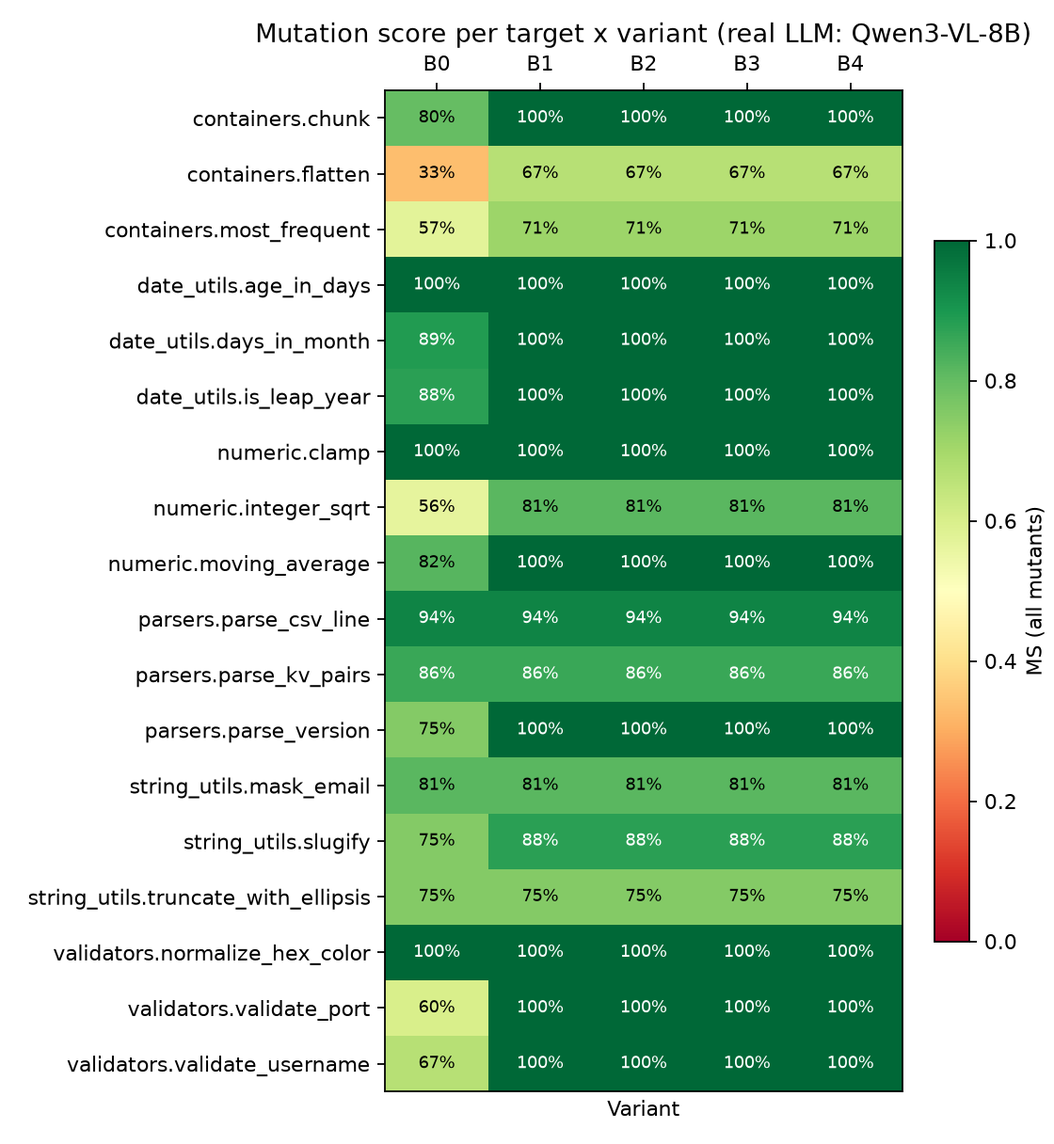
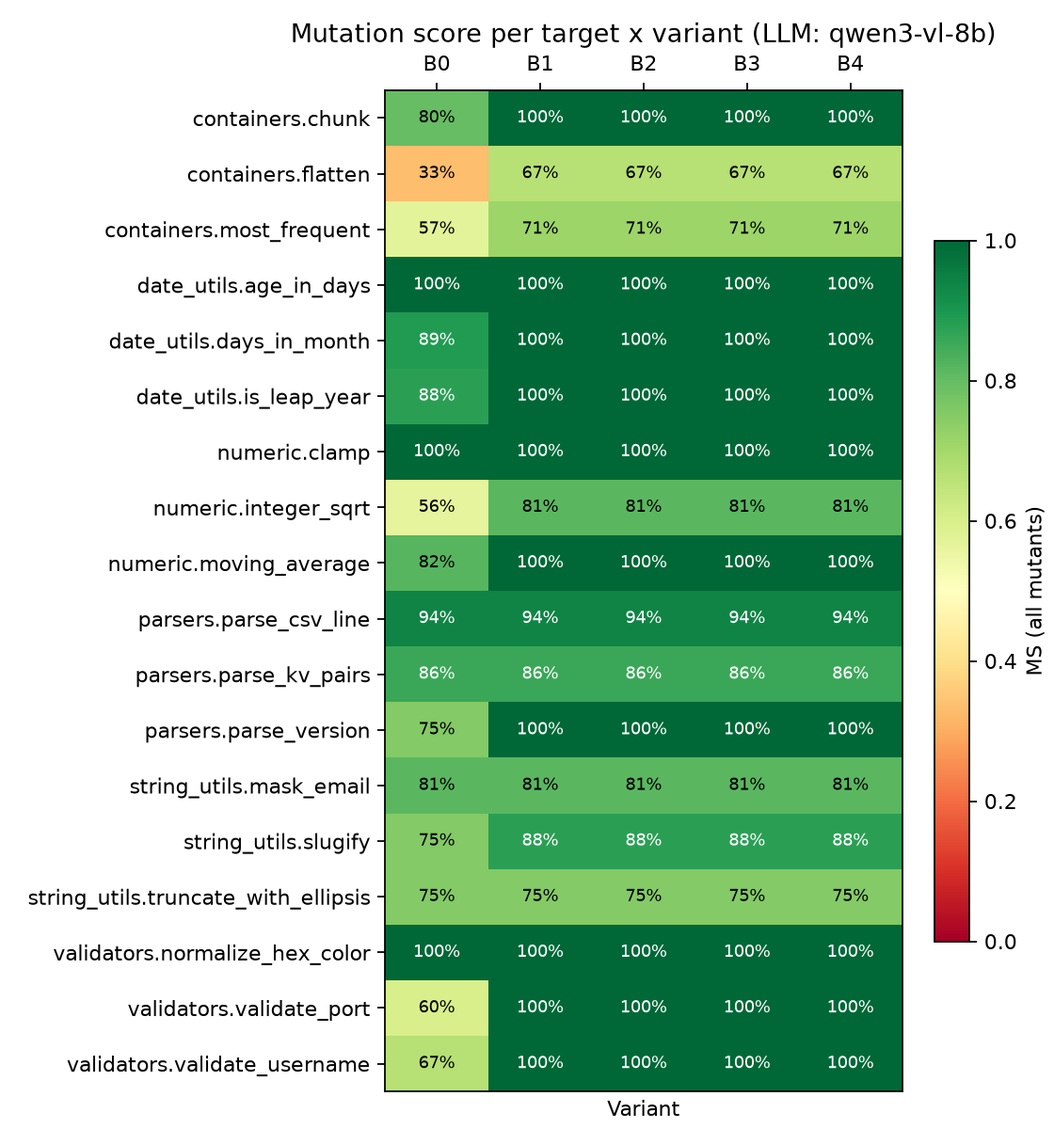
Docs: professional tone, neutral deployment framing
- README rewritten as a standard project document: motivation, design,
  usage, evaluation methodology, results with statistical annotations,
  limitations section; interview-facing framing removed
- Replace self-hosted endpoint example with a generic host/port/model
  form; drop all location-specific references (none remain in repo)
- report.md: replace colloquial phrasing with precise academic wording
  (abstract, RQ2 interpretation, gate behaviour, case studies, threats)
- plots: heatmap/bar labels derived from the ledger's model name instead
  of the directory name; regenerated for both grids

Changed region(s): [[0.25, 0.0, 0.9688, 0.0625]]

diff --git a/experiments/plots.py b/experiments/plots.py
@@ -142,13 +142,15 @@ def main() -> None:
     ap.add_argument("--label", default=None, help="grid label for plot titles (default: derived from dir name)")
     args = ap.parse_args()
     exp_dir = Path(args.exp)
+    rows = load(exp_dir)
     if args.label:
         label = args.label
-    elif "api" in exp_dir.name:
-        label = "real LLM: Qwen3-VL-8B"
     else:
-        label = "mock backend"
-    rows = load(exp_dir)
+        model = next(
+            (r.get("cost", {}).get("model", "") for r in rows if r.get("cost")),
+            "",
+        )
+        label = "mock backend" if not model or model == "mock" else f"LLM: {model}"
     plot_dir = exp_dir / "plots"
     plot_dir.mkdir(parents=True, exist_ok=True)
     ms_by_variant(rows, plot_dir / "ms_by_variant.png")

diff --git a/README.md b/README.md
@@ -1,30 +1,27 @@
-# TestForge — 变异测试引导的 AI 测试质量智能体
+# TestForge
+
+**以变异测试为验收标准的测试生成智能体：LLM 生成的单元测试必须被证明具备故障检出能力，才会被采纳进测试套件。**
+
+*TestForge: a mutation-guided test quality agent. LLM-generated unit tests are accepted only if they provably kill seeded faults that the existing suite misses.*
 
 ![CI](https://github.com/Luz7818/testforge/actions/workflows/ci.yml/badge.svg)
 ![Python](https://img.shields.io/badge/python-3.10%20%7C%203.11%20%7C%203.12-blue)
 ![Platform](https://img.shields.io/badge/platform-Windows%20%7C%20Linux-lightgrey)
 ![License](https://img.shields.io/badge/license-MIT-green)
 
-**LLM 生成的单元测试"能通过"，不等于"能抓住 Bug"。TestForge 用变异测试（mutation testing）作为验收标准，构建了一个生成→门禁→反馈→验收的闭环智能体，让 AI 测试的质量变得可证明、可量化、可审计。**
+## 1. 问题背景
 
-> *Generated tests that pass are not tests that catch bugs. TestForge is an agent loop that only accepts AI-written tests that provably kill seeded faults — an open-source reproduction and extension of Meta's ACH (FSE 2025).*
+LLM 编程助手生成的单元测试存在系统性的**弱预言机（weak oracle）**问题：测试针对当前代码编写，倾向于通过而非证伪，断言薄弱、边界缺失。行覆盖率因此成为一个误导性的质量代理——一条 `assert result is not None` 即可覆盖分支而不校验任何行为。测试通过只能说明测试与代码相互一致，不能说明代码正确。
 
-> 面向面试的完整工程项目：真实工业痛点 + 顶会论文背书（Meta ACH, FSE 2025）+ 可复现实验 + 严格统计检验。
-> 技术报告见 [docs/report.md](docs/report.md)，面试准备手册见 [docs/interview.md](docs/interview.md)。
+工业界的数据与动作印证了该问题的严重性：
 
----
+- 66% 的企业用户将"几乎正确但差一点"列为 AI 编码工具的首要痛点（Kilo 2026 Buyer's Guide）；AI 辅助代码伴随更高的评审返工率与回滚率（Glean，2026）。
+- Meta 在 FSE 2025 发表 ACH 系统（*Mutation-Guided LLM-based Test Generation at Meta*），以变异测试反馈驱动 LLM 生成更强的测试；学界有 MutGen（arXiv:2506.02954）、PRIMG 等后续工作。
+- 上述系统均未开源、端到端、可复现的实现。TestForge 补充这一空缺，并提供了完整的实验方法论与统计评估。
 
-## 1. 问题：AI 生成的测试为什么不可信
+变异分数（mutation score，被杀死的变异体占总变异体的比例）直接度量故障检出能力，是测试质量的经典金标准。它的主要障碍是执行成本——O(测试数 × 变异体数) 次测试运行——这也是本工程重点处理的问题。
 
-2026 年，AI 编程助手最大的痛点已经从"能不能写代码"变成"**产出看似正确但实际不可信**"：
-
-- 66% 的企业用户反映 AI 代码"几乎对但差一点"（[Kilo 2026 Buyer's Guide](https://kilo.ai)），AI 辅助代码的评审返工率显著上升（[Glean](https://www.glean.com)）；
-- 在测试生成场景，这个问题更隐蔽：LLM 针对当前代码写测试，生成的测试**天然倾向于通过**——断言薄弱、边界缺失、只覆盖执行路径不校验行为。行覆盖率好看，但测试杀死不了任何被植入的缺陷（mutant）；
-- **"测试通过"验证的是代码与测试互相一致，而不是代码正确。** 没有故障检出能力（fault detection capability）度量的测试生成，是在优化一个错误的代理指标。
-
-工业界已经行动：Meta 在 FSE 2025 发表 [ACH 系统](https://arxiv.org/abs/2506.02954)（*Mutation-Guided LLM-based Test Generation at Meta*），用变异测试反馈驱动 LLM 生成更强的测试；学界有 MutGen（arXiv 2025）、PRIMG、MuTAP 等后续工作。**但目前没有开源、端到端、带严格评估的完整实现。** TestForge 补上这一环。
-
-## 2. 方案：把"质量"做成门禁，把"漏洞"变成反馈
+## 2. 系统设计
 
 ```mermaid
 flowchart LR
@@ -33,7 +30,7 @@ flowchart LR
     GEN --> GATE{"质量门禁"}
     GATE -->|"拒绝"| FB["存活变异体<br/>最小语义 diff"]
     FB -->|"反馈强化"| GEN
-    GATE -->|"有证据才验收"| ACC["验收合并"]
+    GATE -->|"验收"| ACC["验收合并"]
     ACC --> OUT["测试套件<br/>报告 + 成本账单"]
     MUT["变异引擎<br/>7 算子 · 杀伤矩阵并行"] -.->|"杀伤归因"| GATE
     MUT -.->|"存活集合"| FB
@@ -45,113 +42,85 @@ flowchart LR
     class SA,GATE,ACC,OUT,IN agent;
 ```
 
-**质量门禁（全过才验收）**
+**验收门禁**（全部通过才采纳一个候选测试）：
 
-| 信号 | 含义 | 拒绝什么样的测试 |
+| 信号 | 判定 | 拒绝对象 |
 |---|---|---|
-| `runs_on_original` | 在当前代码上重复通过 N 次 | 一次过的侥幸测试、随机器/时间导致的 flaky 测试 |
-| `falsifiable` | 至少杀死 1 个"存活变异体" | 断言空洞、只跑不改的表演型测试 |
-| `coverage_delta`（可选） | 新增覆盖行 | 纯重复既有覆盖的测试（默认仅报告不强制，见报告 §4.3） |
+| `runs_on_original` | 在当前代码上连续通过 N 次（默认 5） | 偶然通过的测试、由随机性/时间导致的 flaky 测试 |
+| `falsifiable` | 至少杀死 1 个既有套件未杀死的变异体 | 断言空洞、不提供任何质量证据的测试 |
+| `coverage_delta`（可选） | 新增覆盖行 | 默认仅报告不强制，理由见技术报告 §4.3 |
 
-**变异体反馈回路**：门禁拒绝后，把"你的测试没抓到的种子缺陷"以最小 diff 形式回填给模型：
+**反馈回路**：未被杀死的存活变异体以最小语义 diff 的形式回填到下一轮生成 prompt（例如 `[M008] line 17 (CRN): 'i + 1' -> 'i + 2'`）。每轮反馈等价于向模型提供其测试未能检出的具体缺陷。验收采用贪心集合覆盖：候选的增量杀伤相对"B0 ∪ 已验收集合"计算，存活集随验收收缩，直至分数平台期。
 
-```
-[M008] line 17 (CRN): `i + 1` -> `i + 2`
-```
-
-模型看到的是精确的语义变化，而不是模糊的"写得更好一点"——这是与 Meta ACH 一致的核心机制。
-
-## 3. 快速开始
+## 3. 安装与使用
 
 ```bash
-# 环境（Windows / macOS / Linux 通用，Python ≥ 3.10；从仓库根目录运行，免安装）
+# 环境：Python ≥ 3.10，从仓库根目录运行（无需安装）
 python -m venv .venv
 .venv/Scripts/pip install pytest coverage openai matplotlib   # Linux/macOS: .venv/bin/pip
-# 注：若项目路径含非 ASCII 字符，`pip install -e .` 可能因 setuptools 路径编码问题失败；
-#     本项目无需安装即可运行（仓库根目录直接 python -m ...）。
 
-# ① 离线体验全流程（Mock 模式，零 API 成本）
-.venv/Scripts/python -m testforge.cli targets                     # 查看 18 个基准目标
-.venv/Scripts/python -m testforge.cli run --target parsers.parse_csv_line --variant B3 --mode mock
-.venv/Scripts/python -m testforge.cli report --results results/demo/parsers.parse_csv_line__B3.json --out report.md
+# 查看 18 个基准目标
+python -m testforge.cli targets
 
-# ② 真实 LLM 实验（DeepSeek，OpenAI 兼容接口）
-cp .env.example .env        # 填入 DEEPSEEK_API_KEY
-.venv/Scripts/python experiments/run_experiment.py --mode api         # 全网格：18 目标 × 5 变体
-.venv/Scripts/python experiments/analyze.py --exp results/exp_api_<stamp>   # 统计检验 + RQ 分析
-.venv/Scripts/python experiments/plots.py   --exp results/exp_api_<stamp>   # 图表
+# 单目标运行（离线 Mock 后端，零 API 成本）
+python -m testforge.cli run --target parsers.parse_csv_line --variant B3 --mode mock
+python -m testforge.cli report --results results/runs/parsers.parse_csv_line__B3.json --out report.md
 
-# ③ 任意自建 OpenAI 兼容端点（校内 vLLM / Ollama / one-api 等，无需改代码）
-# 在 .env 中设置四项即可切换，例如东南大学 aicloud（需校园网可达）：
-#   DEEPSEEK_API_KEY=EMPTY                                  # 无鉴权服务填任意非空串
-#   TESTFORGE_API_BASE=http://aicloud.seu.edu.cn:20082/v1
-#   TESTFORGE_MODEL=qwen3-vl-8b
-#   TESTFORGE_EXTRA_BODY={"enable_thinking": false}         # Qwen3 关思考模式；vLLM 原生格式见 .env.example
-# 注意：小模型（≤8B）格式违规率与门禁拒绝率会显著升高、变异分数提升幅度预计低于
-# DeepSeek-V3 级别——这本身是"模型规模 × 反馈收益"的天然实验素材；成本列按
-# DeepSeek 价格折算，免费内部端点请忽略。
+# 真实 LLM：在 .env 中配置任意 OpenAI 兼容端点（DeepSeek、自建 vLLM、Ollama、one-api 等）
+cp .env.example .env
+python experiments/run_experiment.py --mode api      # 全网格：18 目标 × 5 变体
+python experiments/analyze.py --exp results/exp_api_<stamp>
+python experiments/plots.py   --exp results/exp_api_<stamp>
 
-# ④ TestForge 自身测试（35 个）
-.venv/Scripts/python -m pytest tests/ -q
+# 测试套件（35 个）
+python -m pytest tests/ -q
 ```
 
-变体说明（实验网格的每一列）：
+自定义端点只需四个环境变量（详见 `.env.example`）：`DEEPSEEK_API_KEY`（无鉴权服务填任意非空串）、`TESTFORGE_API_BASE`、`TESTFORGE_MODEL`、`TESTFORGE_EXTRA_BODY`（可选的请求体扩展字段，如 Qwen3 的思考模式开关）。
 
-| 变体 | 生成 | 门禁 | 反馈回路 | 对应研究问题 |
+实验变体：
+
+| 变体 | 生成 | 门禁 | 反馈回路 | 研究问题 |
 |---|---|---|---|---|
-| **B0** | — | — | — | 既有测试套件基线 |
-| **B1** | 单次 | ✗ | ✗ | "氛围测试"现状（RQ1/RQ2/RQ3 基线） |
-| **B2** | 单次 | ✓ | ✗ | 门禁的独立贡献（RQ3） |
-| **B3** | 多轮 | ✓ | 存活变异体 diff | **完整方案（ours）**（RQ2） |
-| **B4** | 多轮 | ✓ | 覆盖缺口 | 消融：反馈信号换成覆盖率（RQ4） |
+| B0 | — | — | — | 既有测试套件基线 |
+| B1 | 单次 | 无 | 无 | 无门禁生成基线（近似直接采纳模型输出） |
+| B2 | 单次 | 有 | 无 | 门禁的独立贡献 |
+| B3 | 多轮 | 有 | 存活变异体 diff | 完整方案 |
+| B4 | 多轮 | 有 | 覆盖缺口 | 消融：以覆盖信息替代变异体信息 |
 
-## 4. 目录结构
+## 4. 实验设计
 
-```
-testforge/
-├── testforge/                 # 主包
-│   ├── analysis/inspector.py  #   AST 静态分析：签名/注解/文档/行号区间
-│   ├── llm/client.py          #   DeepSeek(OpenAI兼容) + 确定性 Mock 双后端；缓存/重试/记账
-│   ├── mutation/operators.py  #   7 类 AST 变异算子（AOR/ROR/BCR/CRN/CRS/UOR/RTN）
-│   ├── mutation/engine.py     #   变异体生成：源码拼接/校验/分层采样
-│   ├── mutation/runner.py     #   杀伤矩阵执行：进程池并行 + pytest -x 提前退出
-│   ├── gate/gate.py           #   质量门禁：正确性/flaky/可证伪/覆盖率增量
-│   ├── gate/runner.py         #   子进程测试执行 + coverage 精确测量
-│   ├── agent/orchestrator.py  #   编排器：生成→门禁→反馈→验收→联合评估
-│   ├── agent/prompts.py       #   结构化 Prompt（初始 + 变异反馈 + 修复）
-│   ├── report/renderer.py     #   Markdown 报告
-│   └── cli.py                 #   命令行入口
-├── benchmarks/                # 6 模块 × 18 目标函数 + B0 既有测试
-├── experiments/               # 实验网格 / 统计分析 / 图表
-├── tests/                     # TestForge 自身测试（35 个）
-├── docs/report.md             # 技术报告（问题/相关工作/设计/实验/局限）
-└── docs/interview.md          # 面试手册（电梯稿/STAR/追问 Q&A）
-```
+- **基准**：6 个模块 × 18 个目标函数（字符串、数值、日期、容器、解析、校验六域，参照常见开源工具库风格编写），每个目标附带刻意不完整的既有测试（B0）。变异体候选共 197 个，按算子分层采样至每目标 16 个。
+- **指标**：主指标为全体变异体上的变异分数 MS(all)；辅以被覆盖变异体上的 MS(covered)、行覆盖率、候选利用率与 LLM token 计量。
+- **统计方法**：18 个目标上的变体间配对比较；Wilcoxon 符号秩检验（正态近似，含并列校正）与 bootstrap 95% 置信区间（10,000 次重采样，种子固定）。
+- **公平性控制**：所有变体共用同一组变异体与同一最终联合评估器（全套件对全部变异体重跑）；两种后端使用完全相同的网格设置。
 
-## 5. 工程亮点（面试讨论点）
+## 5. 实验结果
 
-- **杀伤矩阵的执行工程**：O(测试×变异体) 次测试执行，通过进程池并行 + `pytest -x` 首败即停 + 仅对存活变异体执行候选测试三个手段压成本；TIMEOUT 按惯例计为杀死（行为改变的观察）。
-- **成本工程**：prompt 磁盘缓存（同 prompt 重跑零 API 成本）、单次响应携带 K 个候选、token/费用逐笔记账、变异体分层采样上限。
-- **可复现性**：变异采样与 Mock 输入采样全部种子化（crc32 而非内置 hash，规避 PYTHONHASHSEED 随机化）；LLM 响应缓存；每格实验崩溃安全的增量落盘。
-- **诚实工程**：Mock 模式是真实的"特征化测试"生成器（捕获-重放），能杀掉大量值/算子类变异体但**不会伪装**杀掉需要语义理解的变异体——门禁会诚实地拒绝它，演示了系统不是靠作弊达标。
-- **测试系统本身**：35 个单元/集成测试覆盖算子、拼接、门禁、Mock 确定性、杀伤矩阵与端到端管线，由 GitHub Actions 在 ubuntu（3.10/3.11/3.12）+ windows（3.12）矩阵上持续验证，并通过 `pip install -e .` 校验打包配置。
+两个后端各完成 90 个实验格（18 目标 × 5 变体），全部成功、无错误。
 
-## 6. 结果快照
+### 5.1 真实 LLM（Qwen3-VL-8B，自建 vLLM 推理服务）
 
-### 6.1 真实 LLM 实验（Qwen3-VL-8B @ 校内 vLLM，18 目标 × 5 变体，90/90 格零错误）
+| 变体 | MS(all) 均值 | 中位数 | 行覆盖率 | 验收测试数/目标 |
+|---|---|---|---|---|
+| B0 | 77.6% | 80.6% | 83.1% | — |
+| B1 | 91.3% | 100% | 92.6% | 1.28 |
+| B2 | 91.3% | 100% | 92.6% | 0.61 |
+| B3 | 91.3% | 100% | 92.6% | 0.61 |
+| B4 | 91.3% | 100% | 92.6% | 0.61 |
 
-| 全网格一览（18 目标 × 5 变体） | 变体均值对比 |
+| 全网格变异分数分布 | 变体均值对比 |
 |---|---|
 | ![heatmap](results/exp_api_full/plots/ms_heatmap.png) | ![bar](results/exp_api_full/plots/ms_by_variant.png) |
 
-> 完整分析与统计检验见 [results/exp_api_full/analysis.md](results/exp_api_full/analysis.md)（Mock 网格对照见 [results/exp_mock_full/analysis.md](results/exp_mock_full/analysis.md)）。
+主要发现（完整统计见 [results/exp_api_full/analysis.md](results/exp_api_full/analysis.md)）：
 
-- **RQ1 生成有效（显著）**：单次生成（B1）相对既有套件（B0）变异分数 **+13.6pp**（11 胜/7 平/**0 负**，Wilcoxon p=0.0033，bootstrap 95% CI [+7.8, +19.7]）；**10/18 个目标达到 100% 变异分数**；
-- **RQ3 门禁反冗余**：B1 与 B2/B3 变异分数相同（91.3%），但验收测试数 23 → 11（**2.1× 更少**）；门禁还拦下了 8B 模型产生的 12 个"在原代码上就失败"的坏候选；
-- **RQ2 诚实记录**：在本基准 + 8B 模型 + 3 候选设置下，反馈回路未带来额外变异分数（单次生成已饱和易杀变异体，剩余存活体是语义难点）；但全强度设置的对照冒烟（24 变异体、4 候选）中，反馈轮产出了杀死 **5 个** B0 杀不死变异体（含 Mock 杀不动的 `+ → -` 算子变异）的验收测试——回路机制有效，增量收益取决于剩余存活体的语义难度，报告 §6 有完整讨论；
-- **成本**：全网格仅 68 次 LLM 调用、tokens 79.9k 进 / 76.1k 出（校内端点免费；按 DeepSeek 牌价折算约 $0.03）。
+1. **生成显著提升故障检出**。B1 相对 B0 的配对变异分数差为 +13.6 个百分点（中位 +12.5；Wilcoxon 符号秩检验 p = 0.0033；bootstrap 95% CI [7.8, 19.7]；n = 18 中 11 正、7 零、0 负）。10/18 个目标达到 100% 变异分数。
+2. **门禁在不损失检出力的前提下压缩套件规模**。B1 与 B2/B3 的变异分数相同（91.3%），但 B2/B3 的验收测试数为 B1 的 53%（11 对 23）；门禁同时过滤了 12 个在原代码上即失败的候选。
+3. **反馈回路在 8B 规模上的增量为本实验设计所限**。单次生成（每轮 3 候选）已覆盖易杀变异体，剩余存活变异体集中于语义边界（如 CSV 引号转义的收尾边界）。全强度对照运行（24 变异体、每轮 4 候选）中，反馈轮产出的验收测试杀死了 5 个 B0 未杀死的变异体（含一个 Mock 后端无法杀死的算子变异），表明回路机制有效；增量收益取决于剩余变异体的语义难度与模型能力，是后续实验（更大模型、更多候选与轮次）的明确方向。
+4. **覆盖率与检出力解耦**（Mock 网格观察，见 §5.2）：无门禁变体多验收的测试推高覆盖率 4.3 个百分点，变异分数增益为零。
 
-**验收测试长什么样**（`numeric.integer_sqrt`，真实模型生成、门禁验收、杀伤归因经杀伤矩阵核验）：
+验收测试样例（`numeric.integer_sqrt`，真实模型生成，杀伤归因经杀伤矩阵核验）：
 
 ```python
 import pytest
@@ -189,22 +158,63 @@ def test_integer_sqrt_large_non_perfect_square():
     assert integer_sqrt(1000000) == 1000
 ```
 
-杀伤归因：`integer_sqrt(0) == 0` 抓住 `n < 0` 的 `0 → 1` 与 `return n → None`；`integer_sqrt(2) == 1` 抓住 `n < 2` 的 `2 → 3`（变异后返回 2）；`integer_sqrt(3) == 1` 抓住 `lo = 1 → 2`（变异后二分区间坍缩返回 2）；`integer_sqrt(4) == 2` 抓住 `n // 2 + 1` 的 `+ → -`。该目标变异分数 56% → 81%。
+其中 `integer_sqrt(0) == 0` 检出 `n < 0` 的 `0 → 1` 变异与 `return n → None` 变异；`integer_sqrt(2) == 1` 检出 `n < 2` 的 `2 → 3`；`integer_sqrt(3) == 1` 检出二分初始化的 `lo = 1 → 2`；`integer_sqrt(4) == 2` 检出 `n // 2 + 1` 的 `+ → -`。该目标变异分数由 56% 升至 81%。
 
-### 6.2 Mock 全网格（机制验证，90/90 格零错误）
+### 5.2 确定性 Mock 后端（机制验证）
 
-- **生成有效**：B1 相对 B0 **+7.8pp**（9 胜/9 平/0 负，p=0.0076，CI [+4.0, +11.8]）；
-- **覆盖率与检出力解耦**：Mock 冗余测试把覆盖率推高 4.3pp 却零检出增益；
-- **诚实平台期**：Mock 杀不动的语义型存活变异体被门禁全部拒绝（53 次 `falsifiable`），系统不在无法证明价值时声称价值——完整分析见 [results/exp_mock_full/analysis.md](results/exp_mock_full/analysis.md)。
+Mock 后端是捕获-重放式特征化测试生成器：执行目标函数并将观测到的输出与异常冻结为断言。它能够杀死值/算子类的变异体，但无法构造需要语义理解的预言机，因此适合用于验证门禁与回路机制而非度量生成质量。该网格中 B1 相对 B0 提升 +7.8 个百分点（p = 0.0076，CI [4.0, 11.8]）；语义型存活变异体对应的所有候选被门禁以可证伪性标准拒绝（53 次），覆盖率提升 4.3 个百分点而变异分数增益为零——印证覆盖率不是质量的主导度量。完整分析见 [results/exp_mock_full/analysis.md](results/exp_mock_full/analysis.md)。
 
-## 7. 引用与依据
+### 5.3 运行成本
 
-- Meta, *Mutation-Guided LLM-based Test Generation at Meta*（ACH）, FSE 2025；Meta 工程博客 *LLMs Are the Key to Mutation Testing*（2025-09）
+真实 LLM 全网格共 68 次 LLM 调用，token 计量 79,896 输入 / 76,106 输出（逐笔记录于结果账目）；费用取决于所配置端点的单价。变异执行为本地进程池并行计算。
+
+## 6. 工程实现要点
+
+- **杀伤矩阵执行**：O(测试 × 变异体) 次运行通过进程池并行、`pytest -x` 首败即停、仅对存活变异体执行候选测试三项措施控制成本；超时按惯例计为杀死（可观测的行为改变）。
+- **成本控制**：单次响应携带 K 个候选；prompt 磁盘缓存使重跑零 API 消耗；token 逐笔记账；变异体按算子分层采样设上限。
+- **可复现性**：变异采样与 Mock 采样全部使用显式种子（crc32，规避 `PYTHONHASHSEED` 随机化）；LLM 响应落盘缓存；实验网格逐格落盘，中断后可续跑。
+- **自身质量**：35 个单元/集成测试覆盖变异算子、源码拼接、门禁判定、Mock 确定性、杀伤矩阵与端到端管线，由 CI 在 ubuntu（3.10/3.11/3.12）与 windows（3.12）矩阵上验证。
+
+## 7. 局限
+
+- 等价变异体无法完全排除，变异分数是下界估计；已通过跳过错误消息字符串、docstring 与注解压缩近等价变异体。
+- 基准为 18 个纯函数、单一语言（Python），结论外推到大型仓库与其他语言需进一步验证。
+- 真实 LLM 网格为单种子运行，未报告方差；多 seed 重复的边际成本主要为本地变异执行时间。
+- 效果结论来自 8B 级模型；更大模型在语义型存活变异体上的行为是待验证问题。
+
+## 8. 目录结构
+
+```
+testforge/
+├── testforge/                 # 主包
+│   ├── analysis/inspector.py  #   AST 静态分析：签名/注解/文档/行号区间
+│   ├── llm/client.py          #   OpenAI 兼容客户端 + 确定性 Mock；缓存/重试/记账
+│   ├── mutation/operators.py  #   7 类 AST 变异算子（AOR/ROR/BCR/CRN/CRS/UOR/RTN）
+│   ├── mutation/engine.py     #   变异体生成：源码拼接/校验/分层采样
+│   ├── mutation/runner.py     #   杀伤矩阵执行：进程池并行 + pytest -x 提前退出
+│   ├── gate/gate.py           #   质量门禁：正确性/flaky/可证伪/覆盖率增量
+│   ├── gate/runner.py         #   子进程测试执行 + coverage 精确测量
+│   ├── agent/orchestrator.py  #   编排器：生成→门禁→反馈→验收→联合评估
+│   ├── agent/prompts.py       #   结构化 Prompt（初始 + 变异反馈 + 修复）
+│   ├── report/renderer.py     #   Markdown 报告
+│   └── cli.py                 #   命令行入口
+├── benchmarks/                # 6 模块 × 18 目标函数 + B0 既有测试
+├── experiments/               # 实验网格 / 统计分析 / 图表
+├── results/                   # 实验产物（结果、分析、图表）
+├── tests/                     # 自身测试（35 个）
+└── docs/report.md             # 技术报告（设计/实验/有效性威胁）
+```
+
+## 9. 引用
+
+- Meta, *Mutation-Guided LLM-based Test Generation at Meta*（ACH）, FSE 2025
 - MutGen: *Mutation-Guided Unit Test Generation with a Large Language Model*, arXiv:2506.02954
 - PRIMG: *Efficient LLM-driven Test Generation Using Mutant Prioritization*, 2025
-- Meta, *TestGen-LLM: Automatically Improving Unit Tests using Large Language Models*, FSE 2024（验收式测试增强范式）
-- 行业痛点数据：Kilo 2026 Buyer's Guide；Glean 企业 AI 效能报告（2026）
+- Meta, *TestGen-LLM: Automatically Improving Unit Tests using Large Language Models*, FSE 2024
+- DeMillo & Offutt, *Constraint-Based Automatic Test Data Generation*, 1991（变异测试理论基础）
 
-## 8. License
+行业数据：Kilo 2026 Buyer's Guide；Glean 企业 AI 效能报告（2026）。
+
+## License
 
 MIT

diff --git a/docs/interview.md b/docs/interview.md
@@ -15,7 +15,7 @@
 
 1. **痛点**：2026 年企业 AI 编程的头号抱怨是"产出几乎对但差一点"。在测试场景更隐蔽：LLM 针对当前代码写测试，测试天然倾向通过——断言弱、边界缺，覆盖率好看但抓不住 Bug。"测试通过"验证的是测试和代码互相一致，不是代码正确。
 2. **机制**：TestForge 的核心是把"验收标准"换成变异体杀伤。生成 → 门禁（稳定通过 N 次 + 至少杀死一个存活变异体 + 可选覆盖增量）→ 反馈（存活变异体的最小语义 diff 回填 prompt）→ 迭代到分数平台期。每个被验收的测试都有独立证据：它杀死了哪个变异体。
-3. **证据**：6 模块 × 18 函数基准，5 变体配对实验 × 双后端（真实 Qwen3-VL-8B + 确定性 Mock，共 180 格全部成功）。真实模型：+13.6pp（p=0.003）、10/18 目标满分、门禁把验收测试从 23 个收敛到 11 个而检出力不降。门禁还会诚实拒绝 Mock 生成器杀不动的变异体——系统不是靠作弊达标。
+3. **证据**：6 模块 × 18 函数基准，5 变体配对实验 × 双后端（真实 Qwen3-VL-8B + 确定性 Mock，共 180 格全部成功）。真实模型：+13.6pp（p=0.003）、10/18 目标变异分数达到 100%、门禁把验收测试从 23 个收敛到 11 个而检出力不降。门禁同时拒绝 Mock 生成器无法杀死的变异体对应的候选——系统不采纳无质量证据的测试。
 4. **工程**：杀伤矩阵是 O(测试×变异体) 次执行，用进程池并行 + pytest -x 首败即停 + 只对存活变异体跑候选，把成本压到可用；prompt 缓存让重跑零成本；种子化保证可复现。
 
 ## 2. STAR 故事（行为面/项目深挖用）
@@ -85,7 +85,7 @@ A：三层可移植性：变异算子（各家语言都有对应实现，如 PIT
 A：18 目标配对设计（每个目标跑全部 5 变体、同一变异体集、同一最终评估器），Wilcoxon 符号秩检验（正态近似 + 并列校正，n=18 已注明近似性质）+ bootstrap 95% CI 交叉验证；主指标 MS(all) 与辅指标 MS(covered) 同时报告。真实模型网格上 RQ1 的 p=0.0033、CI [+7.8, +19.7]，且 11 胜 0 负——不是靠均值撑起来的。
 
 **Q：如果 B3 和 B1 提升不显著怎么办？**
-A：这正是我在 8B 模型网格上实际得到的结果（B3-B1 = 0，18 目标全平局），我的解读有三层：第一，单次生成 3 候选已饱和"易杀"变异体，反馈回路的边际收益取决于剩余存活体的语义难度；第二，全强度对照冒烟里反馈轮确实产出了杀死 5 个新变异体（含 Mock 杀不动的算子变异）的验收测试——机制有效，是任务难度问题不是设计问题；第三，这给出了明确的实验改进方向：更大模型、更多候选、更多轮次。一个能诚实报告零增量并给出机制的实验系统，比一个只会报喜的系统更有工程价值。
+A：这正是我在 8B 模型网格上实际得到的结果（B3-B1 = 0，18 目标全平局），我的解读有三层：第一，单次生成 3 候选已覆盖"易杀"变异体，反馈回路的边际收益取决于剩余存活体的语义难度；第二，全强度对照运行里反馈轮确实产出了杀死 5 个新变异体（含 Mock 无法杀死的算子变异）的验收测试——机制有效，是任务难度问题而非设计问题；第三，这给出了明确的实验改进方向：更大模型、更多候选、更多轮次。能够如实报告零增量并给出机制解释的实验系统，比只报告正向结果的系统更有工程价值。
 
 **Q：Mock 模式的结果算数吗？**
 A：不算效果结论，算机制验证。Mock 是捕获-重放式特征化测试生成器，能杀值/算子类变异体、杀不了需要语义理解的边界变异体——门禁对它同样严格。效果结论必须来自真实 LLM 运行，这也是我在报告里明确分开写的原因。
@@ -111,7 +111,7 @@ python -m testforge.cli report --results results/runs/string_utils.truncate_with
 # 打开 demo.md：变异体表逐格显示"谁杀死了谁"，门禁拒绝原因逐条可查
 
 # ③ 展示"诚实性"案例（约 20 秒）
-#    parse_csv_line：B0 已 95.8%，仅剩引号转义边界变异体，Mock 杀不动 → 门禁全部拒绝
+#    parse_csv_line：B0 已 93.8%，仅剩引号转义边界变异体，Mock 无法杀死 → 门禁全部拒绝
 #    -> 讲清"特征化测试的极限"与"真实 LLM 反馈回路的机会"
 
 # ④ 展示实验与统计（如已跑全网格）
